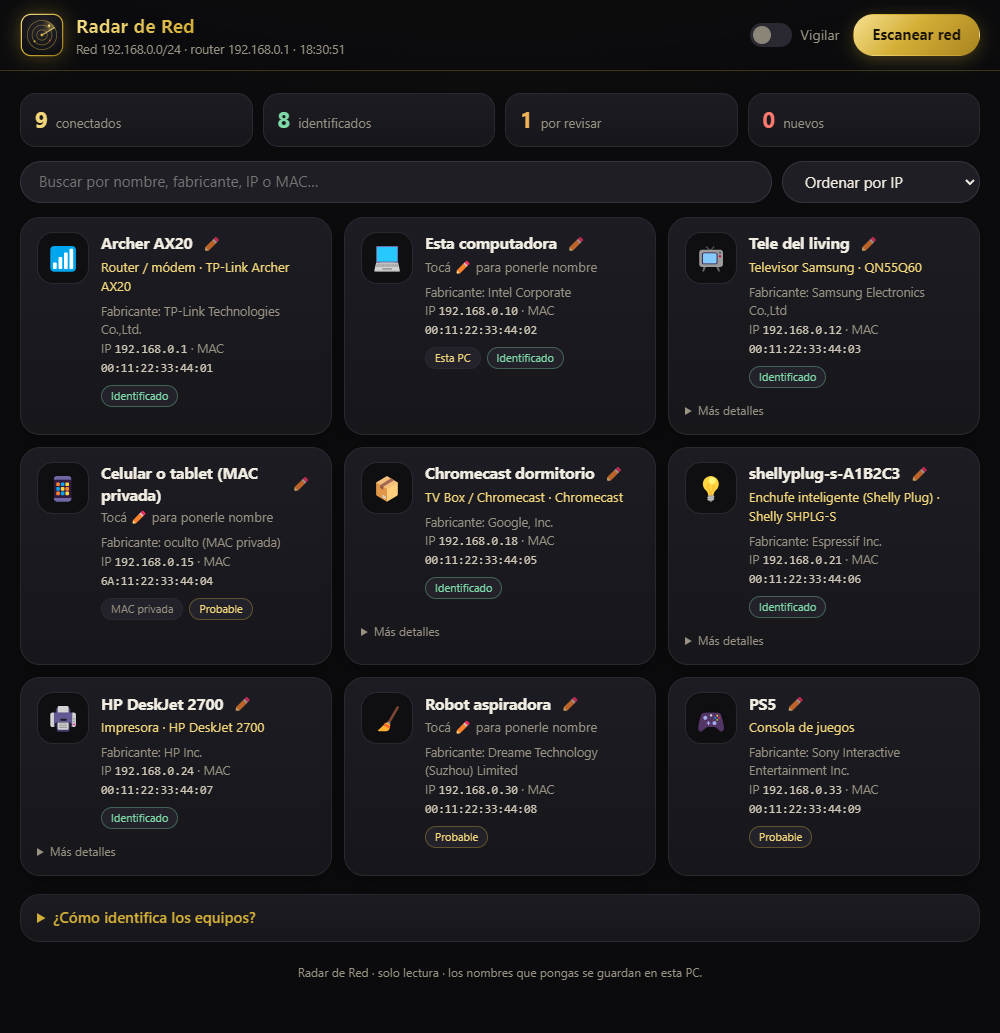
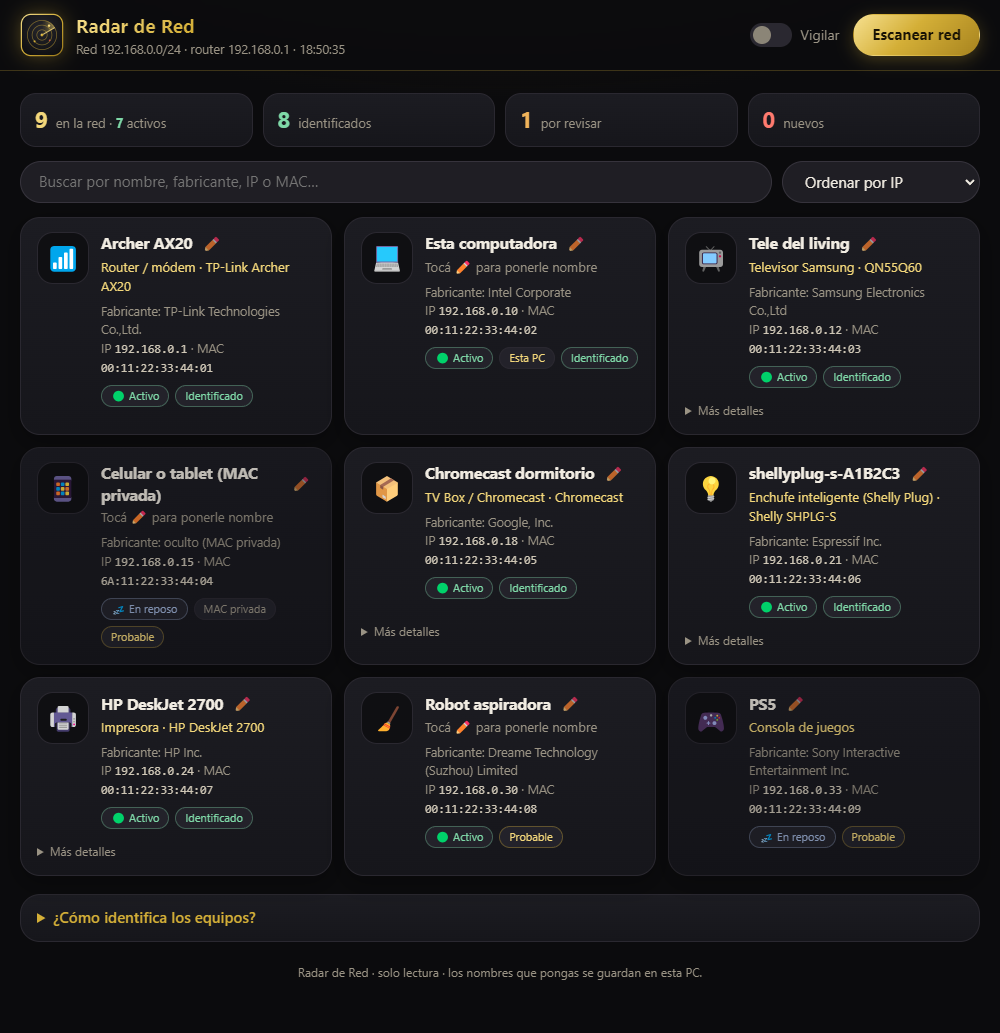
1.1.0: marca Activo / En reposo y arreglos
- Detecta si cada equipo contestó en este escaneo (Activo) o solo lo recuerda
  Windows (En reposo: apagado, en reposo o recién desconectado).
- Samsung/LG sin más pistas: 'Celular, tele o electrodoméstico'.
- SAMJIN: electrodoméstico con Wi-Fi (ej. aire acondicionado).
- El cuadro del lápiz ya no esconde el botón Guardar.
- Ayuda con el truco de desenchufar para identificar aparatos.

diff --git a/src/scanner.js b/src/scanner.js
@@ -277,6 +277,18 @@ async function arpTable(net) {
   return res;
 }
 
+/** Estado de cada vecino según Windows: Reachable = contestó recién. */
+async function neighborStates(net) {
+  const out = await run('powershell.exe', ['-NoProfile', '-Command',
+    `Get-NetNeighbor -AddressFamily IPv4 -ErrorAction SilentlyContinue | ForEach-Object { $_.IPAddress + ';' + $_.State }`]);
+  const st = {};
+  for (const line of out.split(/\r?\n/)) {
+    const [ip, s] = line.trim().split(';');
+    if (ip && s) st[ip] = s;
+  }
+  return st;
+}
+
 async function reverseName(ip, gw) {
   const r = new dns.promises.Resolver({ timeout: 1200, tries: 1 });
   if (gw) { try { r.setServers([gw]); } catch (e) { /* nada */ } }
@@ -314,7 +326,7 @@ function classify(d) {
   if (has(all, /shellyplug/i)) return ['iot', 'Enchufe inteligente (Shelly Plug)', 'seguro'];
   if (has(all, /shelly/i)) return ['iot', 'Dispositivo Shelly (relé, luz, sensor)', 'seguro'];
   if (d.samsungTv) return ['tv', 'Televisor Samsung', 'seguro'];
-  if (has(v, /samjin/i)) return ['iot', 'Dispositivo SmartThings (sensor o hub)', 'probable'];
+  if (has(v, /samjin/i)) return ['appliance', 'Electrodoméstico con Wi-Fi o SmartThings (ej. aire acondicionado)', 'posible'];
   if (has(v, /espressif|tuya|shelly|itead|sonoff|broadlink|lumi|wiz|signify|philips lighting|yeelight|meross/i) || svc.includes('_hap._tcp') || svc.includes('_esphomelib._tcp') || svc.includes('_matter._tcp'))
     return ['iot', 'Dispositivo inteligente (enchufe, luz, sensor…)', 'probable'];
   if (svc.includes('_companion-link._tcp') || has(all, /iphone|ipad/i)) return ['phone', 'iPhone / iPad', 'probable'];
@@ -323,7 +335,9 @@ function classify(d) {
   if (d.netbios || svc.includes('_smb._tcp') || svc.includes('_workstation._tcp') || has(v, /intel corporate|realtek|micro-star|asustek|giga-byte|dell|lenovo|hewlett|apple/i))
     return ['pc', 'Computadora / notebook', 'probable'];
   if (has(v, /tp-link|tenda|mercusys|huawei|zte|netgear|d-link|ubiquiti|mikrotik|linksys|asus/i)) return ['network', 'Equipo de red (repetidor, AP…)', 'probable'];
-  if (has(v, /samsung|lg electronics|whirlpool|bosch|haier|midea|electrolux|gree/i)) return ['appliance', 'Electrodoméstico o equipo ' + v.split(' ')[0], 'posible'];
+  // Samsung y LG fabrican celulares, teles y electrodomésticos: sin más pistas no se puede saber cuál es.
+  if (has(v, /samsung|lg electronics/i)) return ['unknown', 'Celular, tele o electrodoméstico ' + v.split(' ')[0], 'posible'];
+  if (has(v, /whirlpool|bosch|haier|midea|electrolux|gree/i)) return ['appliance', 'Electrodoméstico ' + v.split(' ')[0], 'posible'];
   return ['unknown', 'Desconocido', 'desconocido'];
 }
 
@@ -345,6 +359,23 @@ async function scan(onProgress = () => {}) {
 
   onProgress(60, 'Escuchando qué anuncia cada equipo…');
   const [mdns, ssdp] = await Promise.all([mdnsP, ssdpP]);
+
+  // Quién está activo: se le "toca la puerta" a cada equipo conocido y se espera que Windows
+  // termine de comprobarlo (los que quedan en "Probe" se vuelven a mirar).
+  onProgress(72, 'Comprobando quién está activo…');
+  const knownIps = Object.keys(arp).filter((ip) => ip !== net.ip);
+  const poke = async () => {
+    const s = dgram.createSocket('udp4'); s.on('error', () => {});
+    await new Promise((r) => s.bind(0, r));
+    for (let k = 0; k < 3; k++) for (const ip of knownIps) s.send(Buffer.from([0]), 9, ip);
+    await sleep(300); try { s.close(); } catch (e) { /* nada */ }
+  };
+  await poke(); await sleep(2500);
+  let states = await neighborStates(net);
+  if (knownIps.some((ip) => /^(Probe|Incomplete|Delay)$/i.test(states[ip] || ''))) {
+    await poke(); await sleep(2000);
+    states = await neighborStates(net);
+  }
 
   onProgress(80, 'Averiguando nombres…');
   const ips = Object.keys(arp);
@@ -391,6 +422,9 @@ async function scan(onProgress = () => {}) {
     d.model = ex.model || (d.ssdp && [d.ssdp.manufacturer, d.ssdp.modelName, d.ssdp.modelNumber].filter(Boolean).join(' ')) || txtModel || null;
     if (d.model) d.model = [...new Set(d.model.split(/\s+/))].join(' '); // quita palabras repetidas
     d.bestName = ex.name || (d.ssdp && d.ssdp.friendlyName) || d.mdnsNames[0] || d.netbios || d.hostname || null;
+    // Activo: contestó a la red ahora o respondió a alguna consulta. Si no, está en reposo o apagado.
+    d.state = states[ip] || null;
+    d.alive = d.isSelf || /^(Reachable|Permanent)$/i.test(d.state || '') || !!(nb[ip] || m || ssdp[ip] || extra[ip]);
     const [type, label, confidence] = classify(d);
     Object.assign(d, { type, label, confidence });
     return d;

diff --git a/src/ui/index.html b/src/ui/index.html
@@ -32,7 +32,7 @@
   </div>
 
   <section class="summary" id="summary" hidden>
-    <div class="chip"><b id="sTotal">0</b><span>conectados</span></div>
+    <div class="chip"><b id="sTotal">0</b><span>en la red · <b id="sActive" class="mini">0</b> activos</span></div>
     <div class="chip ok"><b id="sKnown">0</b><span>identificados</span></div>
     <div class="chip warn"><b id="sUnknown">0</b><span>por revisar</span></div>
     <div class="chip new"><b id="sNew">0</b><span>nuevos</span></div>
@@ -57,6 +57,8 @@
   <details class="help">
     <summary>¿Cómo identifica los equipos?</summary>
     <p>Recorre tu red local y usa varias pistas: el <b>fabricante</b> según la MAC, el <b>nombre</b> que da tu router, los nombres de equipos Windows, los <b>servicios</b> que anuncia cada aparato (Chromecast, AirPlay, impresoras…) y la <b>ficha UPnP</b> donde muchas teles y routers dicen su modelo.</p>
+    <p><b>🟢 Activo / 💤 En reposo:</b> “Activo” significa que el equipo contestó durante este escaneo. “En reposo” significa que Windows lo tiene registrado pero ahora no contestó: suele estar apagado, en reposo (como una tele apagada con el control) o recién desconectado.</p>
+    <p><b>Truco:</b> si no sabés cuál es un aparato, desenchufalo y escaneá de nuevo: el que pase a “sin conexión” es ese.</p>
     <p><b>MAC privada:</b> los celulares modernos usan una dirección inventada por privacidad, así que no se sabe su marca. Para reconocerlos, ponéles nombre con el lápiz ✏, o cambiá el nombre del dispositivo en el propio celular.</p>
     <p>Solo mira tu propia red: no cambia nada en el router ni en los equipos.</p>
   </details>

diff --git a/src/ui/style.css b/src/ui/style.css
@@ -76,11 +76,16 @@ button.primary { background: var(--gold-grad); color: var(--ink); border-color: 
 .tag.posible, .tag.desconocido { color: var(--warn); border-color: rgba(240,179,90,.35); }
 .tag.new { background: rgba(255,122,110,.15); color: var(--bad); border-color: rgba(255,122,110,.45); font-weight: 700; }
 .tag.self { color: var(--gold-hi); }
+.tag.alive { color: var(--ok); border-color: rgba(127,217,168,.35); }
+.tag.sleep { color: #9fb4d9; border-color: rgba(159,180,217,.35); }
+.dev.sleeping { opacity: .78; }
+.chip b.mini { font-size: 13px; color: var(--ok); }
 .dev details { grid-column: 1 / -1; margin-top: 2px; }
 .dev details summary { cursor: pointer; color: var(--muted); font-size: 12px; }
 .dev details pre { white-space: pre-wrap; word-break: break-word; font-size: 11.5px; color: #b7ae9b; margin: 6px 0 0; }
-.rename { display: flex; gap: 6px; margin-top: 6px; }
-.rename input { flex: 1; min-width: 0; font: inherit; color: var(--text); background: #0f0f12; border: 1px solid var(--gold-lo); border-radius: 10px; padding: 6px 10px; }
+.dev > div { min-width: 0; }
+.rename { display: flex; flex-wrap: wrap; gap: 6px; margin-top: 6px; }
+.rename input { flex: 1 1 100%; min-width: 0; font: inherit; color: var(--text); background: #0f0f12; border: 1px solid var(--gold-lo); border-radius: 10px; padding: 6px 10px; }
 .rename button { min-height: 32px; padding: 4px 12px; border-radius: 10px; }
 
 .offline, .help { margin-top: 18px; background: linear-gradient(180deg, var(--card2), var(--card)); border: 1px solid var(--line); border-radius: var(--radius); padding: 12px 16px; }

diff --git a/src/ui/app.js b/src/ui/app.js
@@ -18,9 +18,11 @@
 
   function card(d, { isNew = false, offline = false } = {}) {
     const el = document.createElement('article');
-    el.className = 'dev' + (isNew ? ' is-new' : '') + (offline ? ' off' : '');
+    el.className = 'dev' + (isNew ? ' is-new' : '') + (offline ? ' off' : '') + (!offline && d.alive === false ? ' sleeping' : '');
     const tags = [];
     if (isNew) tags.push('<span class="tag new">NUEVO</span>');
+    if (!offline && d.alive === true) tags.push('<span class="tag alive">🟢 Activo</span>');
+    if (!offline && d.alive === false) tags.push('<span class="tag sleep" title="Windows lo recuerda, pero ahora no contestó: está en reposo, apagado o recién se fue">💤 En reposo</span>');
     if (d.isSelf) tags.push('<span class="tag self">Esta PC</span>');
     if (d.random) tags.push('<span class="tag">MAC privada</span>');
     if (!offline) tags.push(`<span class="tag ${esc(d.confidence)}">${{ seguro: 'Identificado', probable: 'Probable', posible: 'Posible', desconocido: 'Sin identificar' }[d.confidence] || ''}</span>`);
@@ -81,6 +83,7 @@
 
     const unknown = last.devices.filter((d) => !names[d.mac] && (d.confidence === 'desconocido' || d.confidence === 'posible' || d.random)).length;
     $('sTotal').textContent = last.devices.length;
+    $('sActive').textContent = last.devices.filter((d) => d.alive !== false).length;
     $('sKnown').textContent = last.devices.length - unknown;
     $('sUnknown').textContent = unknown;
     $('sNew').textContent = last.newMacs.size;

diff --git a/tools/test-rename.js b/tools/test-rename.js
@@ -1,0 +1,20 @@
+// Prueba automática del lápiz: abre la app con datos de ejemplo, renombra un equipo y verifica.
+process.env.RADAR_DEMO = process.env.RADAR_DEMO || require('path').join(__dirname, 'demo.json');
+require('../src/main.js');
+const { app, BrowserWindow } = require('electron');
+app.on('browser-window-created', (_e, w) => {
+  w.webContents.on('did-finish-load', () => setTimeout(async () => {
+    const r = await w.webContents.executeJavaScript(`(async () => {
+      const wait = (ms) => new Promise((x) => setTimeout(x, ms));
+      for (let i = 0; i < 40 && !document.querySelector('.dev .edit'); i++) await wait(250);
+      const card = [...document.querySelectorAll('.dev')].find((c) => c.textContent.includes('00:11:22:33:44:08'));
+      if (!card) return 'no encontré la tarjeta';
+      card.querySelector('.edit').click(); await wait(200);
+      const inp = card.querySelector('.rename input'); if (!inp) return 'no se abrió el cuadro de nombre';
+      inp.value = 'Aire acondicionado'; card.querySelector('.rename .primary').click(); await wait(300);
+      const ok = [...document.querySelectorAll('.dev h3 .nm')].some((n) => n.textContent === 'Aire acondicionado');
+      return ok ? 'OK: el nombre se guardó y se ve en la tarjeta' : 'FALLÓ: no aparece el nombre';
+    })()`);
+    console.log(r); app.quit();
+  }, 500));
+});

diff --git a/tools/test-lapiz.js b/tools/test-lapiz.js
@@ -1,0 +1,18 @@
+// Abre el cuadro del lápiz en una tarjeta de ejemplo y saca captura (ventana oculta).
+process.env.RADAR_DEMO = require('path').join(__dirname, 'demo.json');
+const { app, BrowserWindow } = require('electron');
+require('../src/main.js');
+app.on('browser-window-created', (_e, w) => {
+  w.webContents.on('did-finish-load', () => setTimeout(async () => {
+    await w.webContents.executeJavaScript(`(async () => {
+      const wait = (ms) => new Promise((x) => setTimeout(x, ms));
+      for (let i = 0; i < 40 && !document.querySelector('.dev .edit'); i++) await wait(250);
+      const c = [...document.querySelectorAll('.dev')].find((x) => x.textContent.includes('33:44:02'));
+      c.querySelector('.edit').click(); await wait(200);
+      c.querySelector('.rename input').value = 'Mi PC';
+    })()`);
+    await new Promise((r) => setTimeout(r, 400));
+    require('fs').writeFileSync(require('path').join(__dirname, 'lapiz.png'), (await w.webContents.capturePage({ x: 330, y: 200, width: 340, height: 300 })).toPNG());
+    app.quit();
+  }, 300));
+});

diff --git a/src/main.js b/src/main.js
@@ -6,6 +6,7 @@ let win;
 function createWindow() {
   win = new BrowserWindow({
     width: 1000, height: 780, minWidth: 380, minHeight: 520,
+    show: !process.env.RADAR_SHOT && !process.env.RADAR_DEMO, // las capturas de prueba no aparecen en pantalla
     backgroundColor: '#0b0b0d', title: 'Radar de Red', autoHideMenuBar: true,
     icon: path.join(__dirname, 'ui', 'icon.png'),
     webPreferences: { preload: path.join(__dirname, 'preload.js'), contextIsolation: true, sandbox: true },
